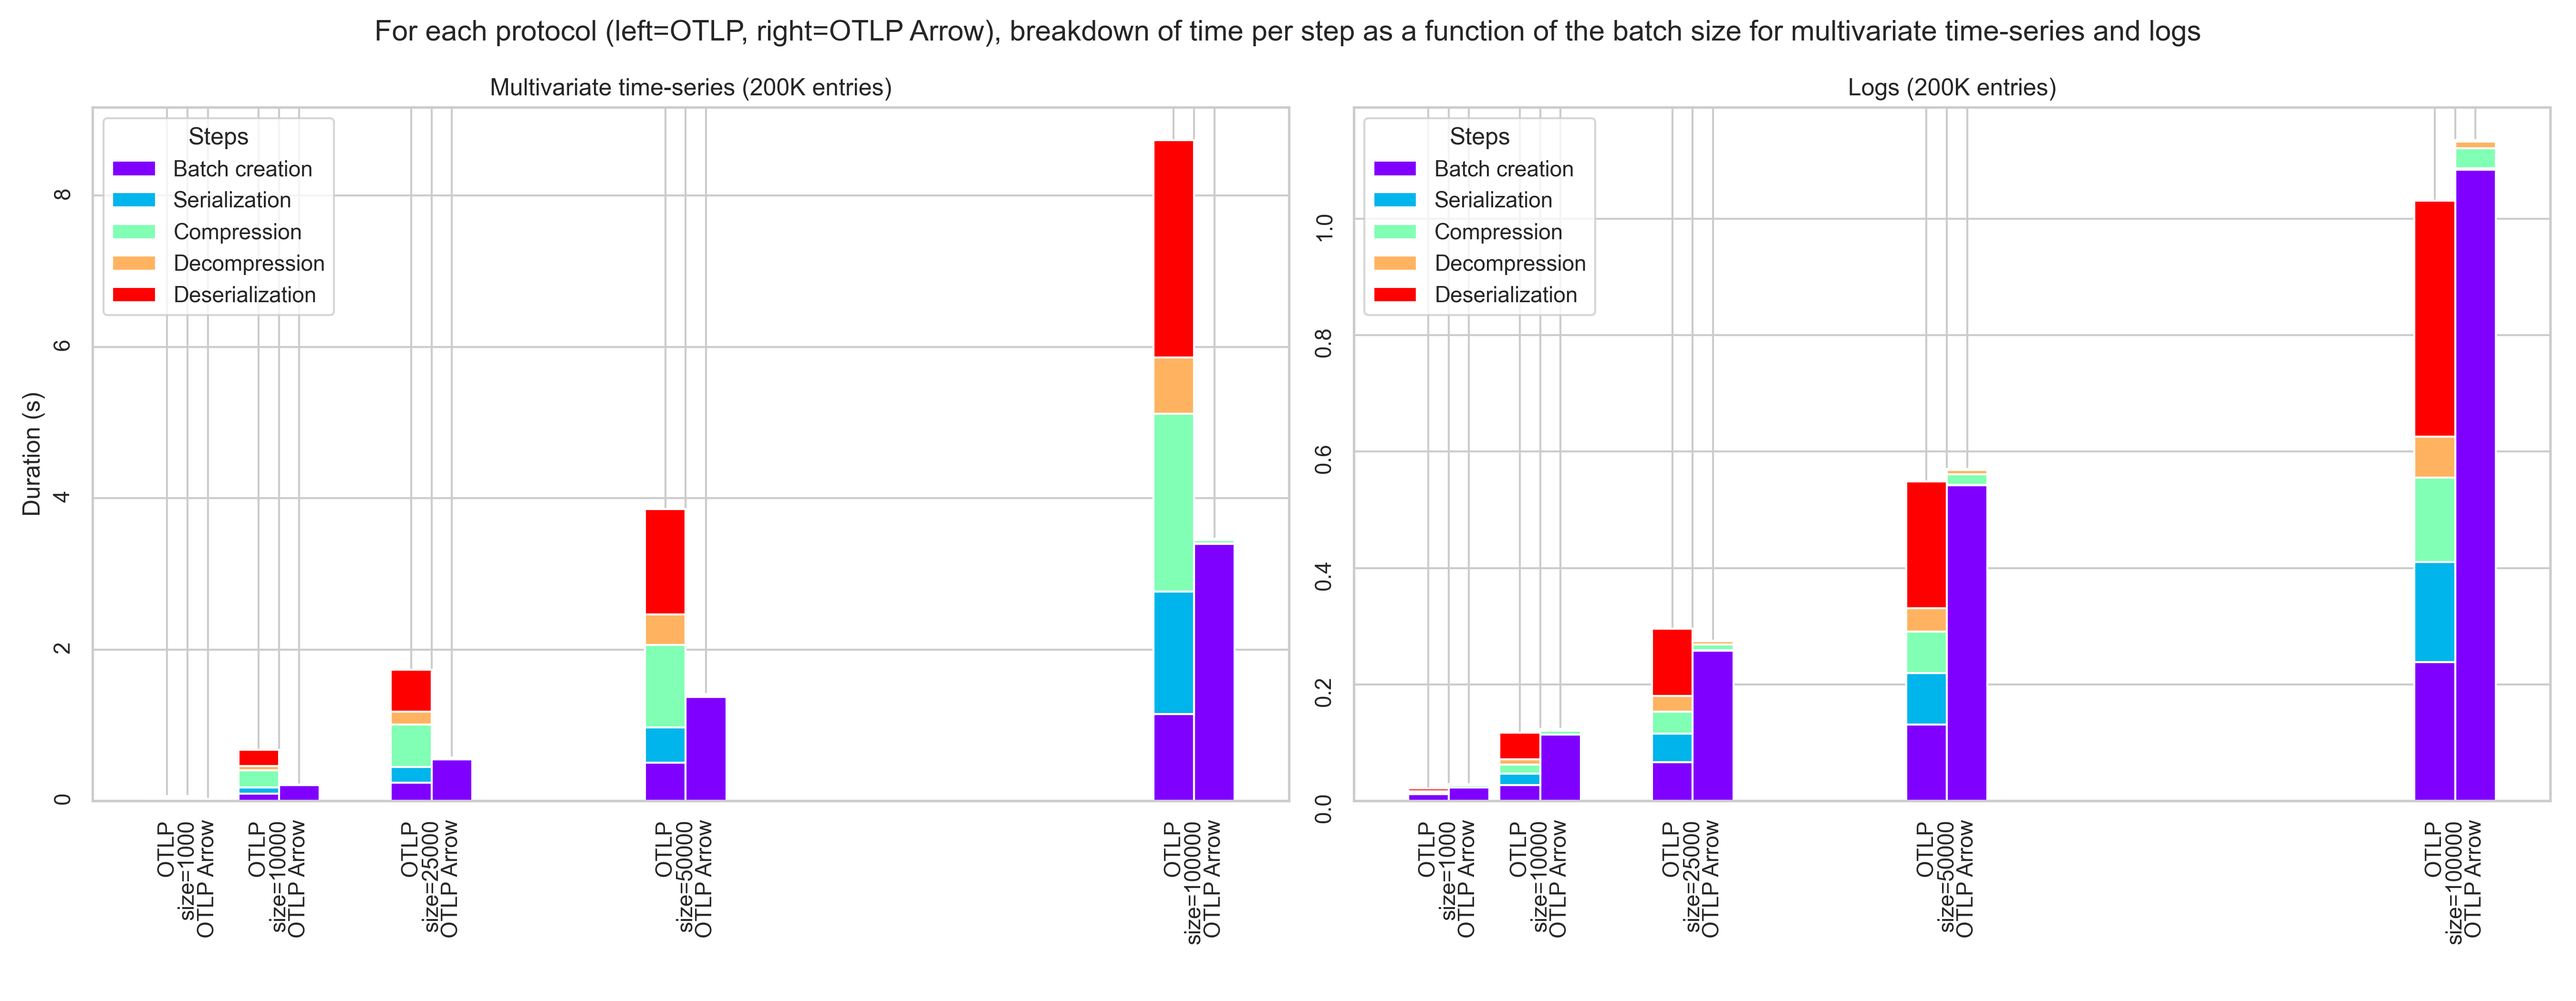
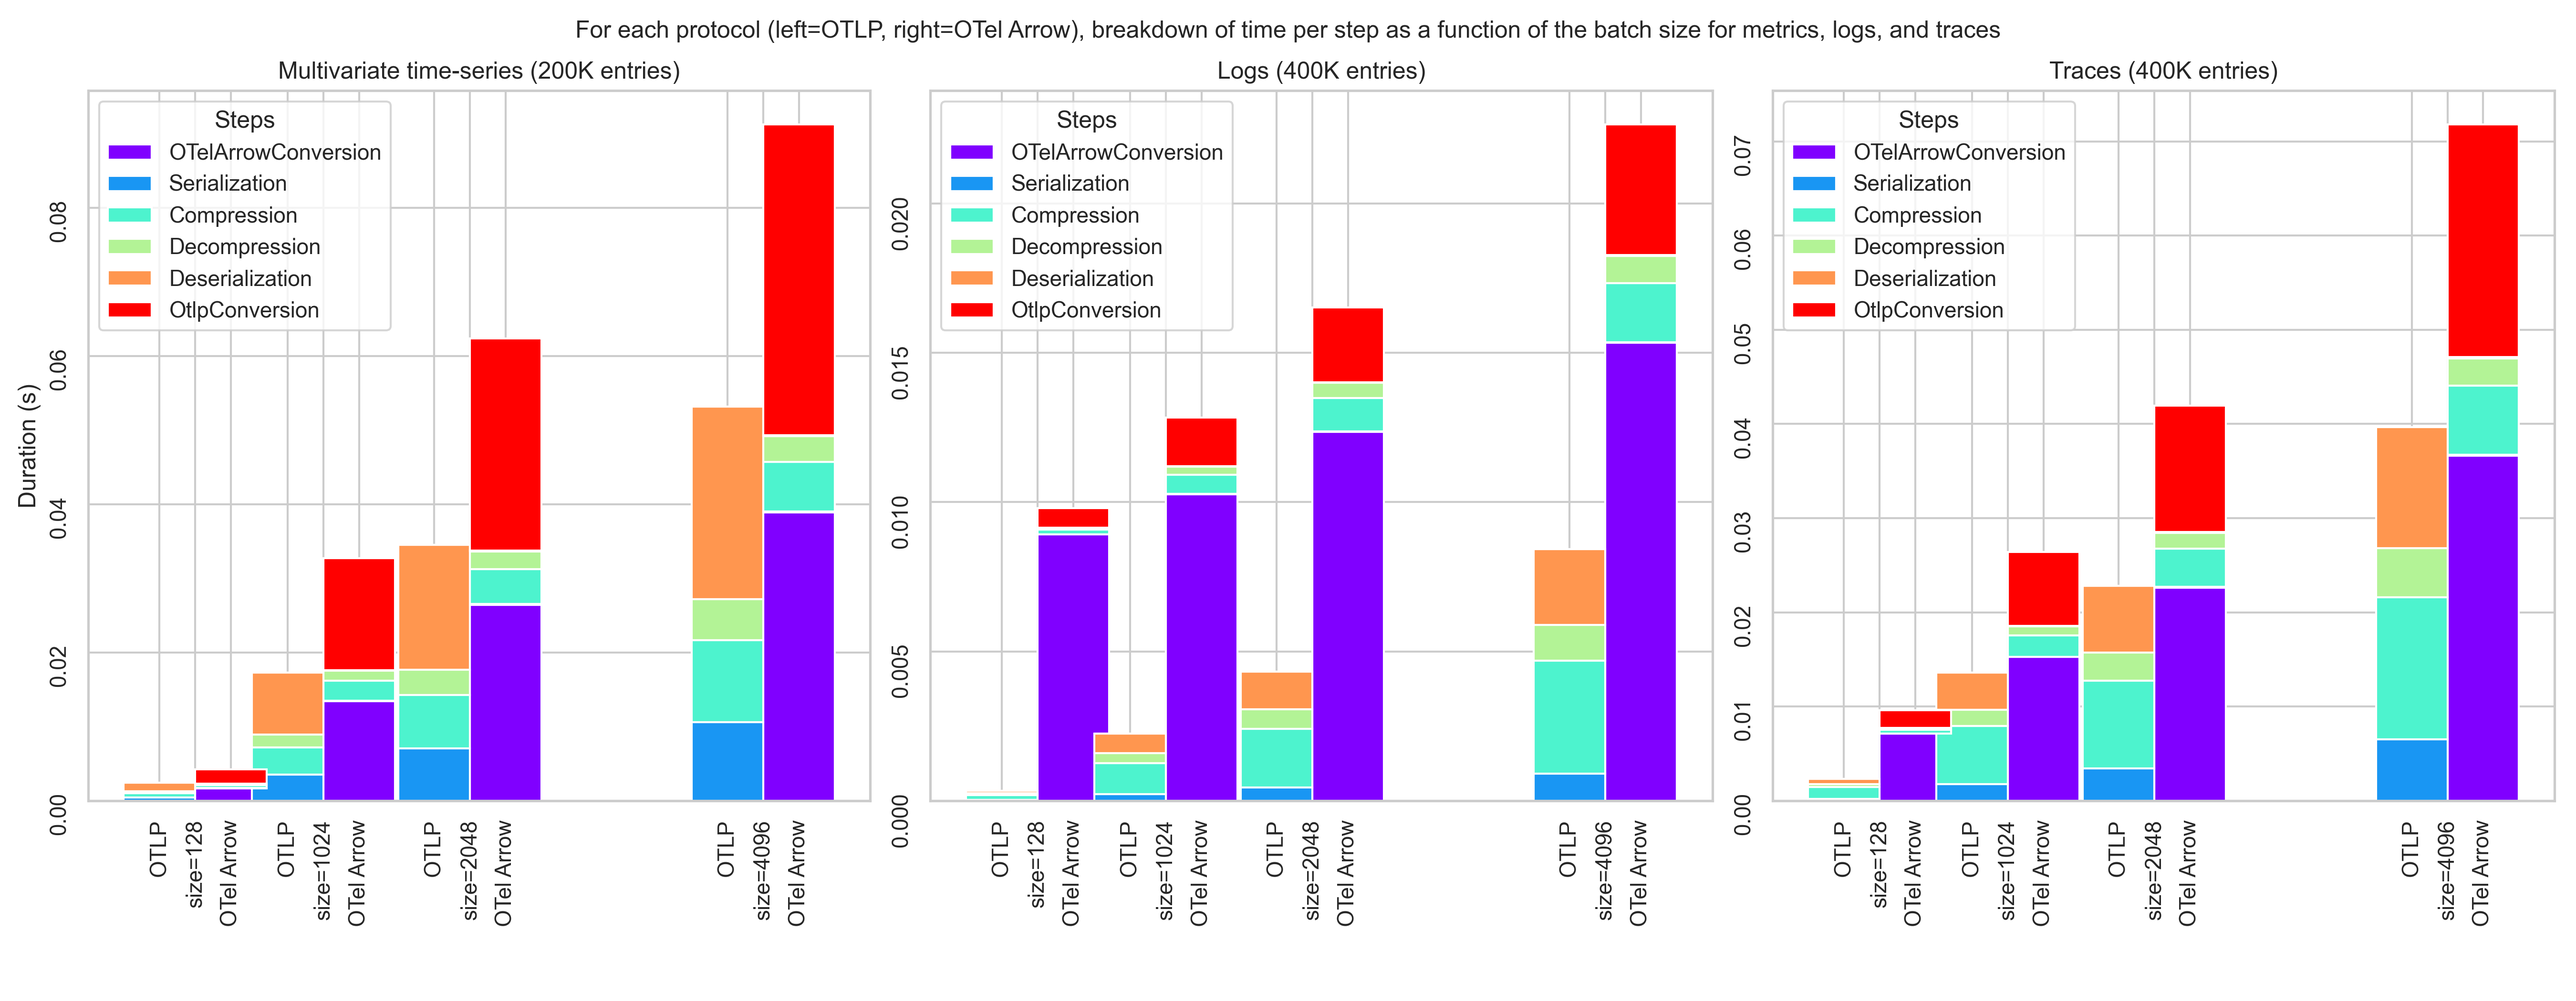
Update 3-columns stacked bar benchmark.

Changed region(s): [[0.0, 0.0, 0.9956, 0.9286], [0.3733, 0.8357, 0.4044, 0.8667]]

diff --git a/text/0156-columnar-encoding.md b/text/0156-columnar-encoding.md
@@ -106,13 +106,13 @@ A series of tests were conducted to compare compression ratios between OTLP and 
 Arrow. The key results are:
 
 * For univariate time series, OTel Arrow is **2 to 2.5 better in terms of bandwidth reduction while having an
-  end-to-end speed (including conversion to/from OTLP) 1.2 to 1.5 times slower in phase 1**. In **phase 2** the conversion
+  end-to-end speed (including conversion to/from OTLP) 1.5 to 2 times slower in phase 1**. In **phase 2** the conversion
   OTLP to/from Arrow is gone and the end-to-end speed is **3.1 to 11.2 times faster by our estimates**.
 * For multivariate time series, OTel Arrow is **3 to 7 times better in terms of bandwidth reduction while having an
   end-to-end speed (including conversion to/from OTLP) similar to the univariate time series scenario phase 1**. Phase 2
   has been yet estimated but similar results are expected.
 * For logs, OTel Arrow is **1.6 to 2 times better in terms of bandwidth reduction while having an end-to-end speed
-  (including conversion to/from OTLP) 1.3 to 2 times slower in phase 1**. In **phase 2** the conversion
+  (including conversion to/from OTLP) 2.5 to 3.5 times slower in phase 1**. In **phase 2** the conversion
   OTLP to/from Arrow is gone and the end-to-end speed is **2.3 to 4.86 times faster** by our estimates.
 * For traces, OTel Arrow is **1.7 to 2.8 times better in terms of bandwidth reduction while having an end-to-end speed
   (including conversion to/from OTLP) 1.5 to 2.1 times slower in phase 1**. In **phase 2** the conversion
@@ -135,20 +135,8 @@ scenario.
 The following stacked bar graphs compare side-by-side the distribution of time spent for each step and for each
 version of the protocol.
 
-#### Benchmark for the univariate time series (batch size: {10, 100, 1000, 2000, 4000})
-
-![Summary of the time spent](img/0156_metrics_step_times_phase1.png)
-[Zoom on the chart](https://raw.githubusercontent.com/lquerel/oteps/main/text/img/0156_metrics_step_times_phase1.png)
-
-#### Benchmark for the logs (batch size: {10, 100, 1000, 2000, 5000, 10000})
-
-![Summary of the time spent](img/0156_logs_step_times_phase1.png)
-[Zoom on the chart](https://raw.githubusercontent.com/lquerel/oteps/main/text/img/0156_logs_step_times_phase1.png)
-
-### Benchmark for the traces (batch size: {10, 100, 1000, 2000, 5000, 10000})
-
-![Summary of the time spent](img/0156_traces_step_times_phase1.png)
-[Zoom on the chart](https://raw.githubusercontent.com/lquerel/oteps/main/text/img/0156_traces_step_times_phase1.png)
+![Summary of the time spent](img/0156_summary_time_spent.png)
+[Zoom on the chart](https://raw.githubusercontent.com/lquerel/oteps/main/text/img/0156_summary_time_spent.png)
 
 A more detailed presentation of the benchmarks comparing *OTLP* and *OTel Arrow* can be found in the following
 sections:
